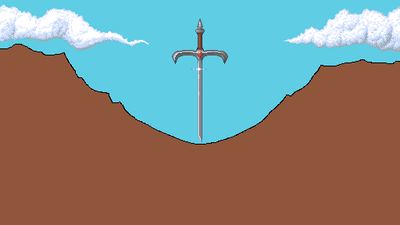
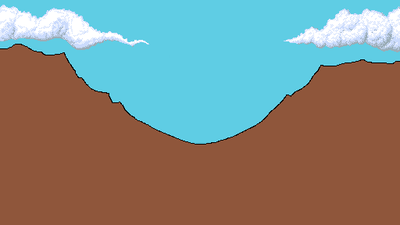
Swordsprite
Took out yok sword, made it it's own graphic. Made it it's own image.
Attached a script to try and animate it, don't know how to reference its
own properties.

Changed region(s): [[0.42, 0.0933, 0.57, 0.6222]]

diff --git a/Assets/scripts/twirl.cs b/Assets/scripts/twirl.cs
@@ -1,0 +1,16 @@
+using UnityEngine;
+using System.Collections;
+
+public class twirl : MonoBehaviour {
+	
+
+	// Use this for initialization
+	void Start () {
+
+	}
+	
+	// Update is called once per frame
+	void Update () {
+		
+	}
+}
